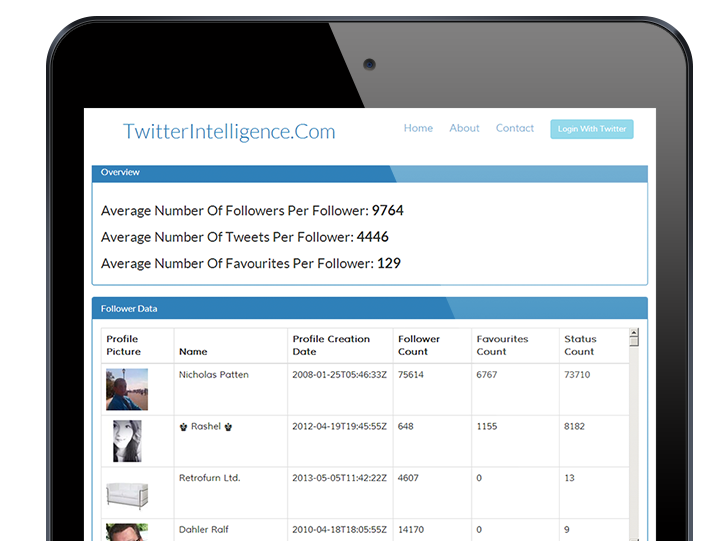
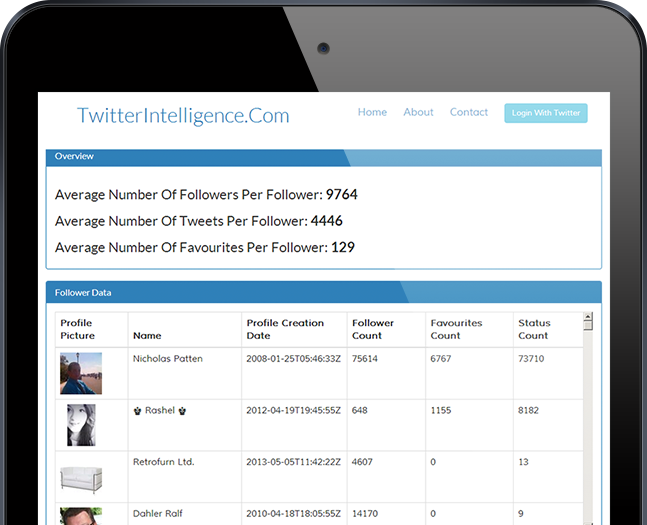
Improved front end design, improved responsiveness

diff --git a/web-app/css/main.css b/web-app/css/main.css
@@ -84,7 +84,7 @@ header {
 }
 
 .nav-links li {
-    /*font-family: 'Source Sans Pro', sans-serif;*/
+    font-family: 'Source Sans Pro', sans-serif;
     font-family: 'Muli', sans-serif;
     font-weight: 400;
     font-size: 18px;
@@ -99,6 +99,34 @@ header {
     float:left;
     margin-left: 68px;
 }
+
+.navbar-default {
+    padding-top: 26px;
+    background-color: #fff;
+    border: none;
+}
+
+.navbar-default .navbar-nav>li>a {
+    color: #2980b9;
+}
+
+.navbar-header {
+    padding-left: 26px;
+    position: relative;
+    top: -16px;
+}
+
+/*Overwrite bootstrap button styling for login button*/
+.navbar-default .navbar-nav>li>button {
+    color: #ffffff
+}
+
+.navbar-default .navbar-nav>li>button:hover {
+    color: #ffffff;
+    background-color: #2980b9;
+    border-color: #000;
+}
+
 
 
 /* ==========================================================================
@@ -134,12 +162,10 @@ header {
 }
 
 .pad-image {
-    position: absolute;
+    position: relative;
     display: block;
     width: 700px;
     height: 450px;
-    right: 20px;
-    top: 32px;
     background: url(../images/pad.png) top left no-repeat;
 }
 
@@ -175,23 +201,14 @@ header {
 .featurette-divider {
     margin: 20px 0; /* Space out the Bootstrap <hr> more */
 }
+
 .featurette {
-    padding-top: 120px; /* Vertically center images part 1: add padding above and below text. */
-    overflow: hidden; /* Vertically center images part 2: clear their floats. */
     margin-right: 0px;
-    margin-top: 50px;
-    height: 500px;
-}
-.featurette-image {
-    margin-top: -120px; /* Vertically center images part 3: negative margin up the image the same amount of the padding to center it. */
+    margin-top: 100px;
 }
 
-/* Give some space on the sides of the floated elements so text doesn't run right into it. */
-.featurette-image.pull-left {
-    margin-right: 40px;
-}
-.featurette-image.pull-right {
-    margin-left: 40px;
+.featurette-image {
+
 }
 
 /* Thin out the marketing headings */
@@ -203,13 +220,26 @@ header {
 }
 
 /* Slide in animation */
-.featurette-animation {
-    margin-right: 1200px;
+.featurette-animation-left {
+    position: relative;
+    left: 1000px;
+
     -webkit-transition: 0.6s ease;
 }
 
-.featurette-change {
-    margin-right: 0px;
+.featurette-change-left {
+    left: 0;
+}
+
+.featurette-animation-right {
+    position: relative;
+    right: 1000px;
+
+    -webkit-transition: 0.6s ease;
+}
+
+.featurette-change-right {
+    right: 0;
 }
 
 
@@ -239,6 +269,16 @@ header {
 
 .device-change {
     opacity: 1;
+}
+
+
+/* ==========================================================================
+   Final CTA
+   ========================================================================== */
+
+.final-cta {
+    background-color: #000000;
+    padding-bottom: 72px;
 }
 
 
@@ -296,7 +336,39 @@ footer {
 
 /* Landscape phones and down */
 @media (max-width: 480px) {
+    .featurette {
+        padding-top: 0px;
+        margin-top: 50px;
+        margin-bottom: 24px;
+    }
 
+    .featurette-image {
+        display:none;
+    }
+
+    .pad-image {
+        display:none;
+    }
+
+    .main-message {
+        text-align: center;
+    }
+
+    .navbar-default {
+        background-color: #f8f8f8;
+        border-color: #e7e7e7;
+    }
+}
+
+@media (min-width: 481px) and (max-width: 765px) {
+    .pad-image {
+        display:none;
+    }
+
+    .navbar-default {
+        background-color: #f8f8f8;
+        border-color: #e7e7e7;
+    }
 }
 
 /* Landscape phone to portrait tablet */
@@ -329,6 +401,18 @@ footer {
     h1.margin-bottom-lg {
         margin-bottom: 24px;
     }
+
+    .featurette-image {
+        margin-top: 20px;
+        width: 300px;
+    }
+
+    .featurette {
+        margin-top: 50px;
+        padding-top: 0px;
+        height:400px;
+    }
+
 
 }
 
@@ -380,7 +464,9 @@ footer {
     padding-left: 0px;
 }
 
-
+.hidden-overflow {
+    overflow: hidden;
+}
 
 
 

diff --git a/web-app/js/application.js b/web-app/js/application.js
@@ -13,11 +13,13 @@
 */
 function init() {
     console.log("called init...")
-    var $twitterAuth = $('#twitterAuthBtn');
+    var $twitterAuth = $('.login-btn');
 
-    $twitterAuth.click(function() {
-        console.log("logging in ...")
-        login();
+    $twitterAuth.each(function(i, obj) {
+        $(obj).click(function() {
+            console.log("logging in ...")
+            login();
+        });
     });
 
     loadAnimations();
@@ -29,8 +31,8 @@ function login() {
     OAuth.popup('twitter', function(error, result) {
 
         //TODO implement error condition
-        console.log(error)
         console.log("redirecting user...")
+
         //redirect user to main screen after logging in
         window.location = 'auth/loginTwitterUser' + '?token=' + result.oauth_token +
             '&tokenSecret=' + result.oauth_token_secret;
@@ -51,7 +53,7 @@ function loadData() {
         loadFollowerData(data.followerData);
         loadTopDomains(data.topDomains);
         loadMostUsedWords(data.commonWords);
-        loadProfileCreationDates(data.profileCreationDates);
+//        loadProfileCreationDates(data.profileCreationDates);
 
 
         //remove loading gif and show sections
@@ -215,15 +217,30 @@ function loadAnimations() {
     if (Modernizr.csstransitions) {
 
         //Add slide in animation for features
-        var $features = $('.featurette');
+        var $featuresLeft = $('.featurette-left'),
+            $featuresRight = $('.featurette-right');
 
-        $features.each(function(i, obj) {
+
+        //Add left animation
+        $featuresLeft.each(function(i, obj) {
 
             var $feature = $(obj);
-            $feature.addClass('featurette-animation');
+            $feature.addClass('featurette-animation-left');
 
             $feature.waypoint(function() {
-                $feature.addClass('featurette-change');
+                $feature.addClass('featurette-change-left');
+            }, { offset: 450 });
+
+        });
+
+        //Add right animation
+        $featuresRight.each(function(i, obj) {
+
+            var $feature = $(obj);
+            $feature.addClass('featurette-animation-right');
+
+            $feature.waypoint(function() {
+                $feature.addClass('featurette-change-right');
             }, { offset: 450 });
 
         });
